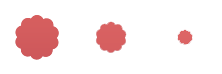
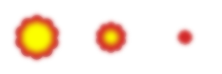
Fire farts

Changed region(s): [[0.0541, 0.1622, 0.2973, 0.8378], [0.4054, 0.2703, 0.5946, 0.7568], [0.7838, 0.3784, 0.8919, 0.6216]]

diff --git a/js/Fuzzle.js b/js/Fuzzle.js
@@ -14,6 +14,7 @@ function fuzzle(){
 	this.gravity = 1;
 	this.posx = 0.15 * g_canvas.width;
 	this.posy = 0.5 * g_canvas.height;
+    this.flag = 0;
 }
 
 /**
@@ -22,6 +23,7 @@ function fuzzle(){
 fuzzle.prototype.render = function(){
     
     // Instantiates fuzzle's trail
+    if (this.flag == 0){
 	var t;
 	if(Math.round(Math.random()) == 1){
      	t = new trail("trail",-22);
@@ -30,7 +32,10 @@ fuzzle.prototype.render = function(){
      	t = new trail("trail",-20);
     }
     g_trail.push(t);
+    }
 	
+    this.flag = 0;
+    
 	// Updates Fuzzle's velocity and position.
 	this.velocity += this.gravity;
 	this.posy += this.velocity;
@@ -70,6 +75,7 @@ fuzzle.prototype.collided = function(){
 * Makes Fuzzle go up.
 */  
 fuzzle.prototype.up = function(){
+    this.flag = 1;
     var t;
 	if(Math.round(Math.random()) == 1){
      	t = new trail("firetrail",-22);
